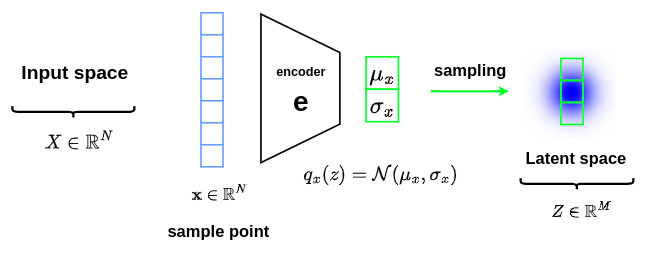
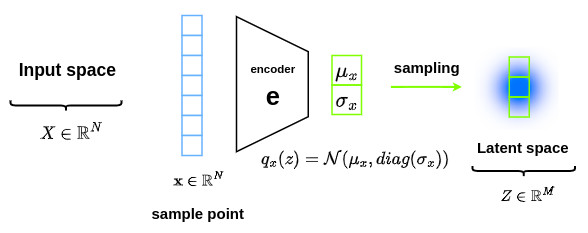
put diag(sigma) everywhere it was needed to be in agreement with the cVAE tuto ;)

diff --git a/collections/_tutorials/2022-09-12-tutorial-vae.md b/collections/_tutorials/2022-09-12-tutorial-vae.md
@@ -68,7 +68,7 @@ These two aspects are optimized within VAEs thanks to a ***probabilistic framewo
 
 #### **Continuity**
 
-In order to introduce local regularization to structure the latent space, the encoding-decoding process is slightly modified: instead of encoding an input as a single point, we encode it as a Gaussian distribution $$q_x(z) = \mathcal{N}\left(\mu_x,\sigma_x\right)$$ over the latent space. Thus, a point $$x\in \mathbb{R}^N$$ at the input of the encoder will correspond to a Gaussian distribution $$q_x(z)$$ at the output, as shown below:
+In order to introduce local regularization to structure the latent space, the encoding-decoding process is slightly modified: instead of encoding an input as a single point, we encode it as an axis-aligned Gaussian distribution $$q_x(z) = \mathcal{N}\left(\mu_x,diag\left(\sigma_x\right)\right)$$ over the latent space. Thus, a point $$x\in \mathbb{R}^N$$ at the input of the encoder will correspond to a Gaussian distribution $$q_x(z)$$ at the output, as shown below:
 
 ![](/collections/images/vae/vae_local_regularization.jpg)
 
@@ -214,9 +214,9 @@ The key concept around VAE is that we will try to optimize the computation of th
 
 &nbsp;
 
-In the VAE formalism, $$p(z \vert x)$$ is approximated by a Gaussian distribution $$q_x(z)$$ whose mean $$\mu_x$$ and covariance $$\sigma_x$$ are defined by two functions $$g(x)$$ and $$h(x)$$. 
+In the VAE formalism, $$p(z \vert x)$$ is modeled by an axis-aligned Gaussian distribution $$q_x(z)$$ whose mean $$\mu_x$$ and covariance $$\sigma_x$$ are defined by two functions $$g(x)$$ and $$h(x)$$. 
 
-$$q_x(z) = \mathcal{N}\left(g(x),h(x)\right)$$
+$$q_x(z) = \mathcal{N}\left(\mu_x,diag\left(\sigma_x\right)\right) = \mathcal{N}\left(g(x),diag\left(h(x)\right)\right)$$
 
 
 We thus have a family of candidates for variational inference and need to find the best approximation among this family by minimising the KL divergence between the approximation $$q_x(z)$$ and the target $$p(z \vert x)$$. In other words, we are looking for the optimal $$g^*$$ and $$h^*$$ such that:
@@ -397,7 +397,7 @@ The graph below shows the final network structure used in the VAE formalism.
 
 The following equation is used as a loss term:
 
-$$\text{loss}=\alpha\|x-\hat{x}\|^2 \,+\, D_{KL}\left(\mathcal{N}\left(\mu_x,\sigma_x\right),\mathcal{N}\left(0,I\right)\right) $$
+$$\text{loss}=\alpha\|x-\hat{x}\|^2 \,+\, D_{KL}\left(\mathcal{N}\left(\mu_x,diag\left(\sigma_x\right)\right),\mathcal{N}\left(0,I\right)\right) $$
 
 &nbsp;
 
@@ -439,8 +439,8 @@ The graph below shows the final network used to implement VAE with the possibili
 
 We recall that the following equation is used as the loss term:
 
-$$\text{loss} = \alpha\|x-\hat{x}\|^2 \,+\, D_{KL}\left(\mathcal{N}\left(\mu_x,\sigma_x\right),\mathcal{N}\left(0,I\right)\right) $$
+$$\text{loss} = \alpha\|x-\hat{x}\|^2 \,+\, D_{KL}\left(\mathcal{N}\left(\mu_x,diag\left(\sigma_x\right)\right),\mathcal{N}\left(0,I\right)\right) $$
 
-$$\text{loss} = \alpha\|x-f(z)\|^2 \,+\, D_{KL}\left(\mathcal{N}\left(g(x),h(x)\right),\mathcal{N}\left(0,I\right)\right) $$
+$$\text{loss} = \alpha\|x-f(z)\|^2 \,+\, D_{KL}\left(\mathcal{N}\left(g(x),diag\left(h(x)\right)\right),\mathcal{N}\left(0,I\right)\right) $$
 
 
